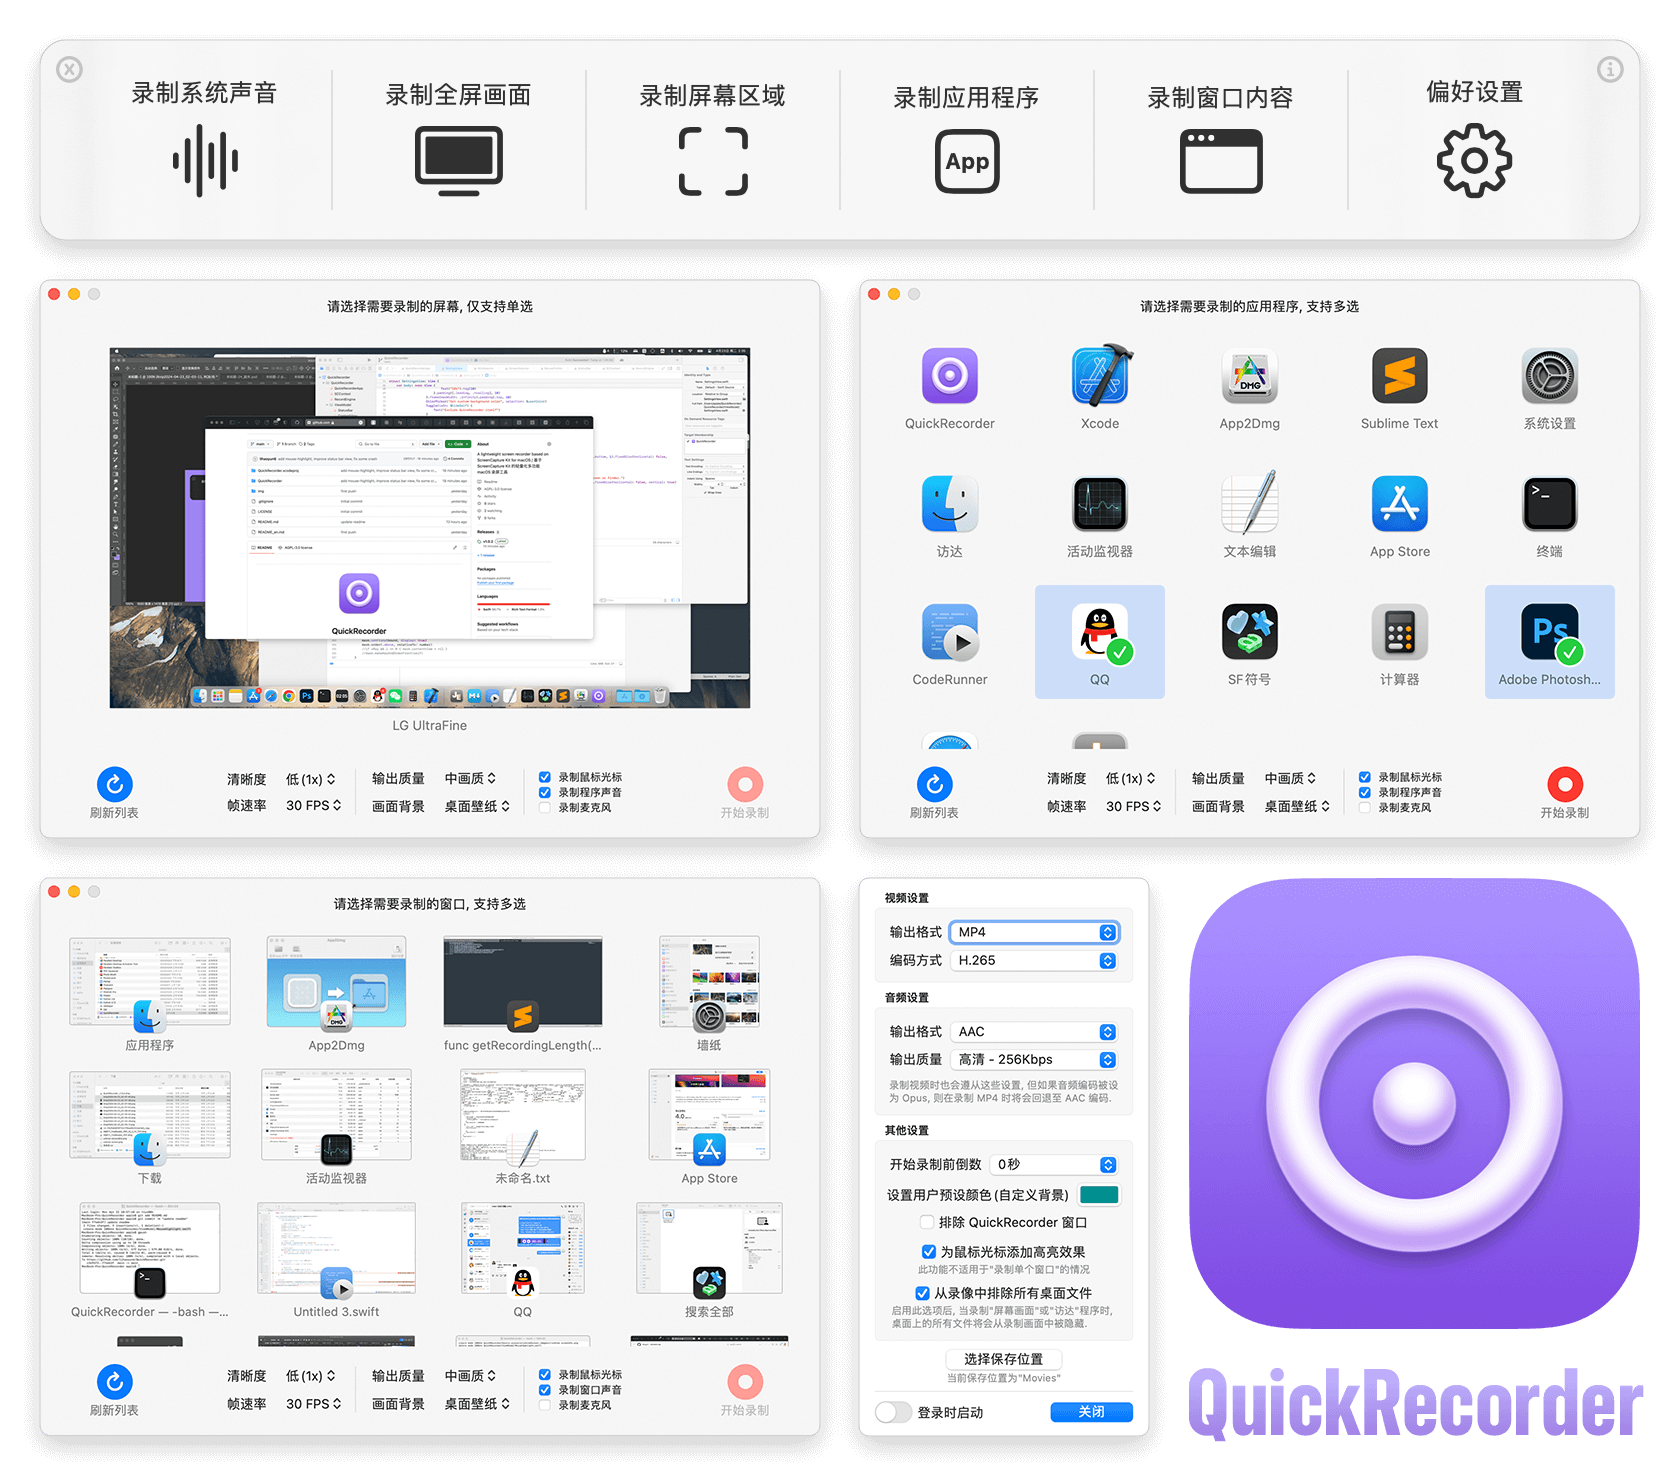
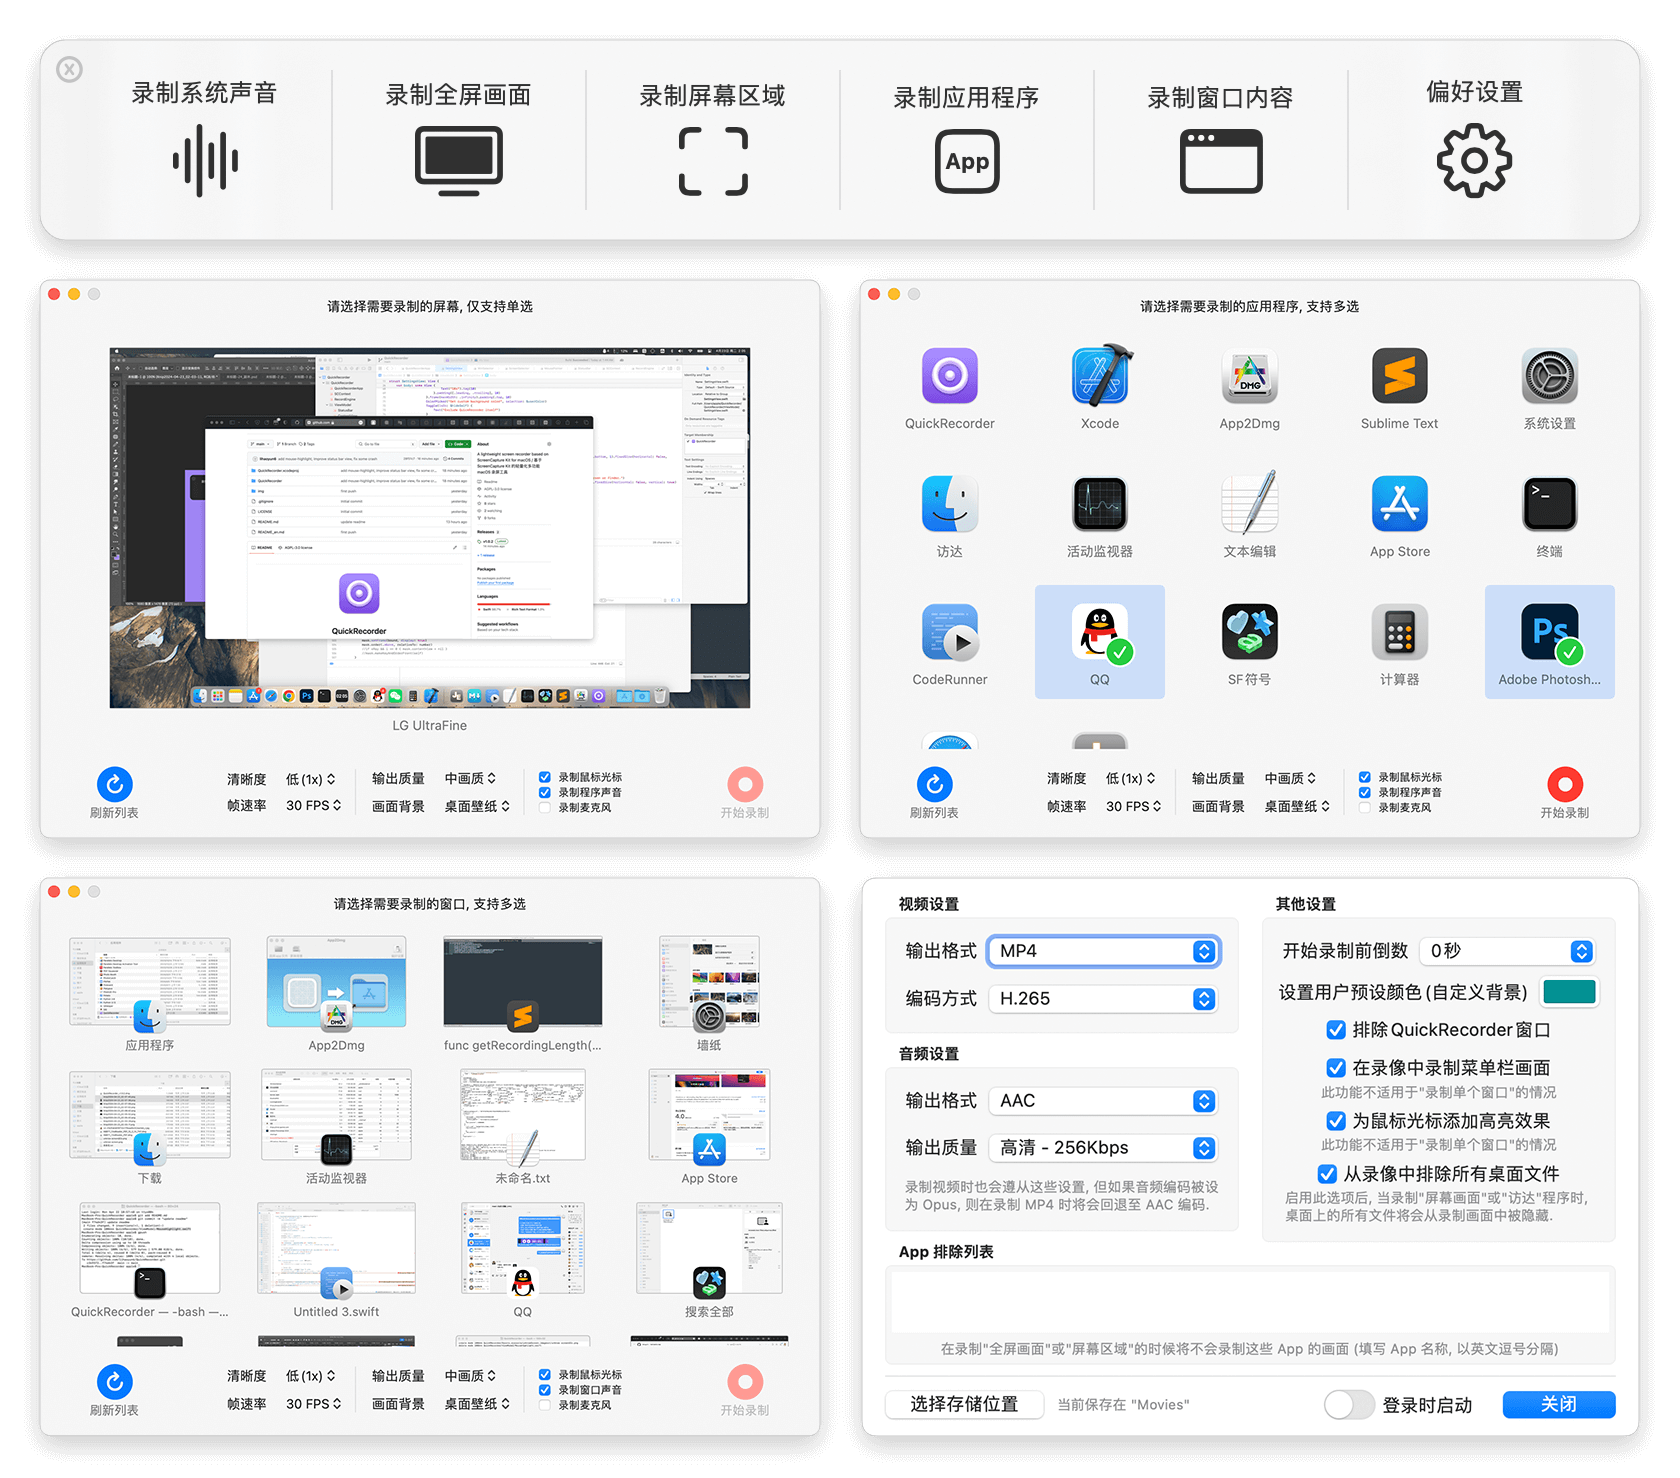
add app blacklist

Changed region(s): [[0.5262, 0.5913, 0.9905, 0.9959]]

diff --git a/QuickRecorder/ViewModel/SettingsView.swift b/QuickRecorder/ViewModel/SettingsView.swift
@@ -12,129 +12,137 @@ struct SettingsView: View {
     @Environment(\.presentationMode) var presentationMode
     @State private var userColor: Color = Color.black
     @State private var launchAtLogin = (SMAppService.mainApp.status == .enabled)
-    @AppStorage("audioFormat")   private var audioFormat: AudioFormat = .aac
-    @AppStorage("audioQuality")  private var audioQuality: AudioQuality = .high
-    @AppStorage("videoFormat")   private var videoFormat: VideoFormat = .mp4
-    @AppStorage("encoder")       private var encoder: Encoder = .h264
-    @AppStorage("hideSelf")      private var hideSelf: Bool = true
-    @AppStorage("countdown")     private var countdown: Int = 0
-    @AppStorage("saveDirectory") private var saveDirectory: String?
-    @AppStorage("hideDesktopFiles") private var hideDesktopFiles: Bool = false
+    @AppStorage("encoder")          private var encoder: Encoder = .h264
+    @AppStorage("videoFormat")      private var videoFormat: VideoFormat = .mp4
+    @AppStorage("audioFormat")      private var audioFormat: AudioFormat = .aac
+    @AppStorage("audioQuality")     private var audioQuality: AudioQuality = .high
+    @AppStorage("hideSelf")         private var hideSelf: Bool = true
+    @AppStorage("countdown")        private var countdown: Int = 0
+    @AppStorage("appBlackList")     private var appBlackList: String = ""
+    @AppStorage("saveDirectory")    private var saveDirectory: String?
     @AppStorage("highlightMouse")   private var highlightMouse: Bool = false
     @AppStorage("includeMenuBar")   private var includeMenuBar: Bool = false
-    
+    @AppStorage("hideDesktopFiles") private var hideDesktopFiles: Bool = false
     
     var body: some View {
         VStack {
-            VStack(alignment: .leading) {
-                GroupBox(label: Text("Video Settings".local).fontWeight(.bold)) {
-                    Form() {
-                        Picker("Format", selection: $videoFormat) {
-                            Text("MOV").tag(VideoFormat.mov)
-                            Text("MP4").tag(VideoFormat.mp4)
-                        }.padding([.leading, .trailing], 10)
-                        Picker("Encoder", selection: $encoder) {
-                            Text("H.264").tag(Encoder.h264)
-                            Text("H.265").tag(Encoder.h265)
-                        }.padding([.leading, .trailing], 10)
-                    }.frame(maxWidth: .infinity).padding(.top, 10).padding(.bottom, 7)
-                }
-                GroupBox(label: Text("Audio Settings".local).fontWeight(.bold)) {
-                    Form() {
-                        Picker("Format", selection: $audioFormat) {
-                            Text("AAC").tag(AudioFormat.aac)
-                            Text("ALAC (Lossless)").tag(AudioFormat.alac)
-                            Text("FLAC (Lossless)").tag(AudioFormat.flac)
-                            Text("Opus").tag(AudioFormat.opus)
-                        }.padding([.leading, .trailing], 10)
-                        Picker("Quality", selection: $audioQuality) {
-                            if audioFormat == .alac || audioFormat == .flac {
-                                Text("Lossless").tag(audioQuality)
-                            }
-                            Text("Normal - 128Kbps").tag(AudioQuality.normal)
-                            Text("Good - 192Kbps").tag(AudioQuality.good)
-                            Text("High - 256Kbps").tag(AudioQuality.high)
-                            Text("Extreme - 320Kbps").tag(AudioQuality.extreme)
-                        }.padding([.leading, .trailing], 10).disabled(audioFormat == .alac || audioFormat == .flac)
-                    }.frame(maxWidth: .infinity).padding(.top, 10)
-                    Text("These settings are also used when recording video. If set to Opus, MP4 will fall back to AAC.")
-                        .font(.footnote).foregroundColor(Color.gray).padding([.leading,.trailing, .bottom], 6).padding(.top, 1).fixedSize(horizontal: false, vertical: true)
-                }
-                GroupBox(label: Text("Other Settings".local).fontWeight(.bold)) {
-                    Form() {
-                        Picker("Recording Delay", selection: $countdown) {
-                            Text("0s").tag(0)
-                            Text("3s").tag(3)
-                            Text("5s").tag(5)
-                            Text("10s").tag(10)
-                        }.padding([.leading, .trailing], 10)
-                    }.frame(maxWidth: .infinity).padding(.top, 10)
-                    ColorPicker("Set custom background color", selection: $userColor)
-                    Toggle(isOn: $hideSelf) {
-                        Text("Exclude QuickRecorder itself")
+            HStack(alignment: .top, spacing: 17){
+                VStack(alignment: .leading) {
+                    GroupBox(label: Text("Video Settings".local).fontWeight(.bold)) {
+                        Form() {
+                            Picker("Format", selection: $videoFormat) {
+                                Text("MOV").tag(VideoFormat.mov)
+                                Text("MP4").tag(VideoFormat.mp4)
+                            }.padding([.leading, .trailing, .bottom], 10)
+                            Picker("Encoder", selection: $encoder) {
+                                Text("H.264").tag(Encoder.h264)
+                                Text("H.265").tag(Encoder.h265)
+                            }.padding([.leading, .trailing], 10)
+                        }.frame(maxWidth: .infinity).padding([.top, .bottom], 10)
+                    }//.padding(.bottom, 7)
+                    GroupBox(label: Text("Audio Settings".local).fontWeight(.bold)) {
+                        Form() {
+                            Picker("Format", selection: $audioFormat) {
+                                Text("AAC").tag(AudioFormat.aac)
+                                Text("ALAC (Lossless)").tag(AudioFormat.alac)
+                                Text("FLAC (Lossless)").tag(AudioFormat.flac)
+                                Text("Opus").tag(AudioFormat.opus)
+                            }.padding([.leading, .trailing, .bottom], 10)
+                            Picker("Quality", selection: $audioQuality) {
+                                if audioFormat == .alac || audioFormat == .flac {
+                                    Text("Lossless").tag(audioQuality)
+                                }
+                                Text("Normal - 128Kbps").tag(AudioQuality.normal)
+                                Text("Good - 192Kbps").tag(AudioQuality.good)
+                                Text("High - 256Kbps").tag(AudioQuality.high)
+                                Text("Extreme - 320Kbps").tag(AudioQuality.extreme)
+                            }.padding([.leading, .trailing], 10).disabled(audioFormat == .alac || audioFormat == .flac)
+                        }.frame(maxWidth: .infinity).padding(.top, 10)
+                        Text("These settings are also used when recording video. If set to Opus, MP4 will fall back to AAC.")
+                            .font(.footnote).foregroundColor(Color.gray).padding([.leading,.trailing], 6).padding(.bottom, 8).padding(.top, 4).fixedSize(horizontal: false, vertical: true)
                     }
-                    .padding(.bottom, 7)
-                    .toggleStyle(CheckboxToggleStyle())
-                    //.onChange(of: hideSelf) {_ in Task { if hideSelf { highlightMouse = false }}}
-                    if #available(macOS 14.2, *) {
-                        Toggle(isOn: $includeMenuBar) {
-                            Text("Include MenuBar")
+                }.frame(width: 260)
+                VStack(alignment: .center) {
+                    GroupBox(label: Text("Other Settings".local).fontWeight(.bold)) {
+                        Form() {
+                            Picker("Recording Delay", selection: $countdown) {
+                                Text("0s").tag(0)
+                                Text("3s").tag(3)
+                                Text("5s").tag(5)
+                                Text("10s").tag(10)
+                            }.padding([.leading, .trailing], 10)
+                        }.frame(maxWidth: .infinity).padding(.top, 10)
+                        ColorPicker("Set custom background color", selection: $userColor)
+                        //.onChange(of: hideSelf) {_ in Task { if hideSelf { highlightMouse = false }}}
+                        Toggle(isOn: $hideSelf) { Text("Exclude QuickRecorder itself") }
+                            .padding(.bottom, 4)
+                            .toggleStyle(CheckboxToggleStyle())
+                        if #available(macOS 14.2, *) {
+                            Toggle(isOn: $includeMenuBar) { Text("Include MenuBar") }
+                                .toggleStyle(CheckboxToggleStyle())
+                            Text("Not available for \"Single Window Capture\"")
+                                .font(.footnote).foregroundColor(Color.gray).padding([.leading,.trailing], 6).fixedSize(horizontal: false, vertical: true)
                         }
-                        .toggleStyle(CheckboxToggleStyle())
+                        Toggle(isOn: $highlightMouse) { Text("Highlight the mouse cursor") }
+                            .toggleStyle(CheckboxToggleStyle())
+                        //.onChange(of: highlightMouse) {_ in Task { if highlightMouse { hideSelf = false }}}
                         Text("Not available for \"Single Window Capture\"")
                             .font(.footnote).foregroundColor(Color.gray).padding([.leading,.trailing], 6).fixedSize(horizontal: false, vertical: true)
+                        Toggle(isOn: $hideDesktopFiles) { Text("Exclude the \"Desktop Files\" layer") }
+                            .toggleStyle(CheckboxToggleStyle())
+                        Text("If enabled, all files on the Desktop will be hidden from the video when recording Screen or Finder.")
+                            .font(.footnote).foregroundColor(Color.gray).padding([.leading,.trailing], 6).padding(.bottom, 8).fixedSize(horizontal: false, vertical: true)
                     }
-                    Toggle(isOn: $highlightMouse) {
-                        Text("Highlight the mouse cursor")
-                    }
-                    .toggleStyle(CheckboxToggleStyle())
-                    //.onChange(of: highlightMouse) {_ in Task { if highlightMouse { hideSelf = false }}}
-                    Text("Not available for \"Single Window Capture\"")
+                }.frame(width: 260)
+            }//.padding(.bottom, 0.5)
+            GroupBox(label: Text("Excluded Apps".local).fontWeight(.bold)) {
+                VStack(spacing: 5.5) {
+                    TextEditor(text: $appBlackList)
+                        .frame(minWidth: 0, maxWidth: .infinity, minHeight: 0, maxHeight: .infinity)
+                    Text("These apps will be excluded when recording \"Screen\" or \"Screen Area\" (app names separated by commas)")
                         .font(.footnote).foregroundColor(Color.gray).padding([.leading,.trailing], 6).fixedSize(horizontal: false, vertical: true)
-                    Toggle(isOn: $hideDesktopFiles) {
-                        Text("Exclude the \"Desktop Files\" layer")
-                    }.toggleStyle(CheckboxToggleStyle())
-                    Text("If enabled, all files on the Desktop will be hidden from the video when recording Screen or Finder.")
-                        .font(.footnote).foregroundColor(Color.gray).padding([.leading,.trailing, .bottom], 6).fixedSize(horizontal: false, vertical: true)
                 }
-                VStack(spacing: 2) {
+            }.frame(width: 537, height: 90).padding(.top, -8)
+            Divider()
+            HStack {
+                HStack(spacing: 10) {
                     Button(action: {
                         updateOutputDirectory()
                     }, label: {
                         Text("Select output directory").padding([.leading, .trailing], 10)
                     })
                     Text(String(format: "Currently set to \"%@\"".local, URL(fileURLWithPath: saveDirectory!).lastPathComponent)).font(.footnote).foregroundColor(Color.gray)
-                }.frame(maxWidth: .infinity).padding(.top, 1)
-                Divider()
-                HStack {
-                    VStack {
-                        HStack(spacing: 15){
-                            Toggle(isOn: $launchAtLogin) {}
-                                .offset(x: 10)
-                                .toggleStyle(.switch)
-                                .onChange(of: launchAtLogin) { newValue in
-                                    do {
-                                        if newValue {
-                                            try SMAppService.mainApp.register()
-                                        } else {
-                                            try SMAppService.mainApp.unregister()
-                                        }
-                                    }catch{
-                                        print("Failed to \(newValue ? "enable" : "disable") launch at login: \(error.localizedDescription)")
+                }.padding(.leading, 0.5)
+                Spacer()
+                VStack {
+                    HStack(spacing: 15){
+                        Toggle(isOn: $launchAtLogin) {}
+                            .offset(x: 10)
+                            .toggleStyle(.switch)
+                            .onChange(of: launchAtLogin) { newValue in
+                                do {
+                                    if newValue {
+                                        try SMAppService.mainApp.register()
+                                    } else {
+                                        try SMAppService.mainApp.unregister()
                                     }
+                                }catch{
+                                    print("Failed to \(newValue ? "enable" : "disable") launch at login: \(error.localizedDescription)")
                                 }
-                            Text("Launch at login")
-                        }
-                    }.padding(.leading, -10)
-                    Spacer()
-                    Button(action: {
-                        presentationMode.wrappedValue.dismiss()
-                    }, label: {
-                        Text("Close").padding([.leading, .trailing], 20)
-                    }).keyboardShortcut(.defaultAction)
-                }.padding(.top, 1.5)
-            }.frame(width: 260).padding([.leading, .trailing], 16).padding([.top, .bottom], 13)
+                            }
+                        Text("Launch at login")
+                    }
+                }.padding(.trailing, 14)
+                Button(action: {
+                    presentationMode.wrappedValue.dismiss()
+                }, label: {
+                    Text("Close").padding([.leading, .trailing], 20)
+                }).keyboardShortcut(.defaultAction)
+            }.padding(.top, 1.5)
+            
+                
         }
+        .padding([.leading, .trailing], 17).padding([.top, .bottom], 12)
         .onAppear{ userColor = ud.color(forKey: "userColor") ?? Color.black }
         .onDisappear{ ud.setColor(userColor, forKey: "userColor") }
     }

diff --git a/QuickRecorder/RecordEngine.swift b/QuickRecorder/RecordEngine.swift
@@ -44,6 +44,11 @@ extension AppDelegate {
         let dockWindow = SCContext.availableContent!.windows.first(where: { $0.title == "Dock" && $0.owningApplication?.bundleIdentifier == "com.apple.dock" })
         let desktopFiles = SCContext.availableContent!.windows.filter({ $0.title == "" && $0.owningApplication?.bundleIdentifier == "com.apple.finder" })
         let mouseWindow = SCContext.availableContent!.windows.filter({ $0.title == "Mouse Pointer".local && $0.owningApplication?.bundleIdentifier == Bundle.main.bundleIdentifier })
+        let appBlackList = ud.string(forKey: "appBlackList")?.split(separator: ",").map{ $0.trimmingCharacters(in: .whitespacesAndNewlines) }
+        let excliudedApps = SCContext.availableContent!.applications.filter({
+            guard let apps = appBlackList else { return false }
+            return apps.contains($0.applicationName)
+        })
         
         if SCContext.streamType == .window || SCContext.streamType == .windows {
             if var includ = SCContext.window {
@@ -59,8 +64,9 @@ extension AppDelegate {
             }
         } else {
             if SCContext.streamType == .screen || SCContext.streamType == .screenarea || SCContext.streamType == .systemaudio {
-                let excluded = [SCRunningApplication]()
+                var excluded = [SCRunningApplication]()
                 var except = [SCWindow]()
+                excluded += excliudedApps
                 if ud.bool(forKey: "hideSelf") { if let qrWindows = qrWindows { except += qrWindows }}
                 if ud.bool(forKey: "removeWallpaper") { if dockApp != nil { except += wallpaper}}
                 if ud.bool(forKey: "hideDesktopFiles") { except += desktopFiles }

diff --git a/QuickRecorder/QuickRecorderApp.swift b/QuickRecorder/QuickRecorderApp.swift
@@ -105,6 +105,7 @@ class AppDelegate: NSObject, NSApplicationDelegate, SCStreamDelegate, SCStreamOu
         
         ud.register( // default defaults (used if not set)
             defaults: [
+                "appBlackList": "",
                 "audioFormat": AudioFormat.aac.rawValue,
                 "audioQuality": AudioQuality.high.rawValue,
                 "background": BackgroundType.wallpaper.rawValue,
